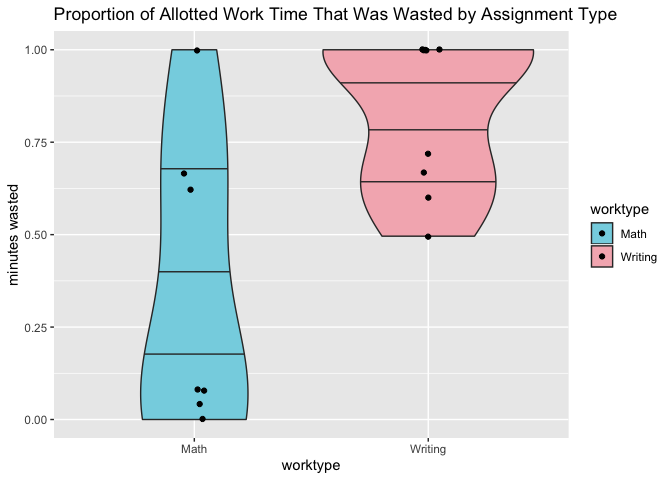
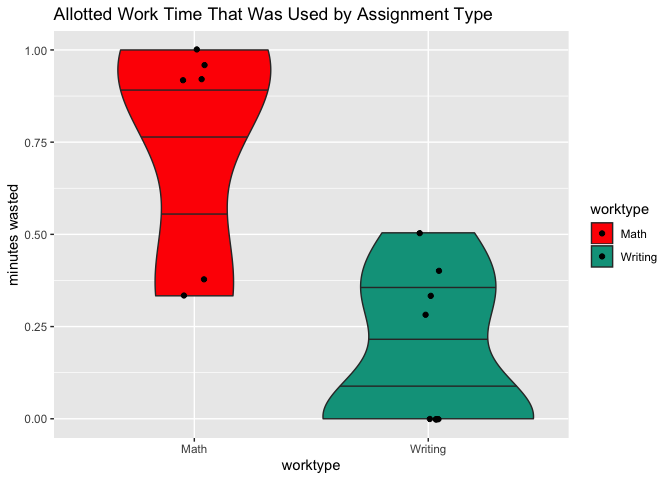
report

diff --git a/index.md b/index.md
@@ -44,7 +44,8 @@ majority of the time that I get distracted is from the Internet, so my
 search history was an accurate reflection of all the time that I wasted.
 The *timewasted* variable tracks the amount of time per work session
 that was spent off task. I also kept track of where I was working
-(*studyarea*) and the assignment type (*worktype*).
+(*studyarea*), the assignment type (*worktype*), and the days until the
+assignment’s deadline (*daysleft*).
 
 After collecting my data, I downloaded my calendar as a .ics file and
 began wrangling. There are two datasets: productivitydata, which
@@ -52,71 +53,7 @@ contains the variables related to my work sessions, and the more general
 activitydata, which contains all the activities that I have done in
 quarantine.
 
-Here is a view of my activity data set:
-
-    head(allactivities)
-
-    ##   summary               start                 end      start_datetime
-    ## 1    Free 2020-04-18 21:00:00 2020-04-19 01:00:00 2020-04-18 21:00:00
-    ## 2  Violin 2020-04-18 20:00:00 2020-04-18 21:00:00 2020-04-18 20:00:00
-    ## 3    Free 2020-04-19 13:00:00 2020-04-19 15:00:00 2020-04-19 13:00:00
-    ## 4    Work 2020-04-19 15:00:00 2020-04-19 16:30:00 2020-04-19 15:00:00
-    ## 5    Free 2020-04-19 16:30:00 2020-04-19 17:00:00 2020-04-19 16:30:00
-    ## 6    Free 2020-04-19 21:30:00 2020-04-20 00:00:00 2020-04-19 21:30:00
-    ##          end_datetime length_sec length_min length_hrs       date daysleft
-    ## 1 2020-04-19 01:00:00 14400 secs   240 secs   4.0 secs 2020-04-18       NA
-    ## 2 2020-04-18 21:00:00  3600 secs    60 secs   1.0 secs 2020-04-18       NA
-    ## 3 2020-04-19 15:00:00  7200 secs   120 secs   2.0 secs 2020-04-19       NA
-    ## 4 2020-04-19 16:30:00  5400 secs    90 secs   1.5 secs 2020-04-19       NA
-    ## 5 2020-04-19 17:00:00  1800 secs    30 secs   0.5 secs 2020-04-19       NA
-    ## 6 2020-04-20 00:00:00  9000 secs   150 secs   2.5 secs 2020-04-19       NA
-    ##   timewasted allottedtime activity hours
-    ## 1      2e+07          240     Free   4.0
-    ## 2      2e+07           60   Violin   1.0
-    ## 3      2e+07          120     Free   2.0
-    ## 4      2e+07           90     Work   1.5
-    ## 5      2e+07           30     Free   0.5
-    ## 6      2e+07          150     Free   2.5
-
 Here is a view of my productivity data set:
-
-    head(productivitydata)
-
-    ##                                        summary               start
-    ## 1 0, Actual Linear Algebra, Bed, 4 problems, 2 2020-04-19 01:00:00
-    ## 2                    60, YoutubeLinear, Bed, 5 2020-04-22 23:00:00
-    ## 3                   180, YoutubeEssay, Bed, 13 2020-04-23 00:00:00
-    ## 4                    60, YoutubeEssay, Desk, 3 2020-04-24 00:00:00
-    ## 5                     60, YoutubeEssay, Bed, 1 2020-04-26 02:00:00
-    ## 6                    120, YoutubeEssay, Bed, 8 2020-04-28 01:00:00
-    ##                   end      start_datetime        end_datetime length_sec
-    ## 1 2020-04-19 03:00:00 2020-04-19 01:00:00 2020-04-19 03:00:00  7200 secs
-    ## 2 2020-04-23 00:00:00 2020-04-22 23:00:00 2020-04-23 00:00:00  3600 secs
-    ## 3 2020-04-23 03:00:00 2020-04-23 00:00:00 2020-04-23 03:00:00 10800 secs
-    ## 4 2020-04-24 01:00:00 2020-04-24 00:00:00 2020-04-24 01:00:00  3600 secs
-    ## 5 2020-04-26 03:00:00 2020-04-26 02:00:00 2020-04-26 03:00:00  3600 secs
-    ## 6 2020-04-28 03:00:00 2020-04-28 01:00:00 2020-04-28 03:00:00  7200 secs
-    ##   length_min length_hrs       date daysleft timewasted allottedtime
-    ## 1   120 secs     2 secs 2020-04-19        2          0          120
-    ## 2    60 secs     1 secs 2020-04-22        5         60           60
-    ## 3   180 secs     3 secs 2020-04-23       13        180          180
-    ## 4    60 secs     1 secs 2020-04-24        3         60           60
-    ## 5    60 secs     1 secs 2020-04-26        1         60           60
-    ## 6   120 secs     2 secs 2020-04-28        8        120          120
-    ##   studyarea timewastedproportion worktype timeproductive
-    ## 1       Bed                    0     Math            120
-    ## 2       Bed                    1     Math              0
-    ## 3       Bed                    1  Writing              0
-    ## 4      Desk                    1  Writing              0
-    ## 5       Bed                    1  Writing              0
-    ## 6       Bed                    1  Writing              0
-    ##   timeworkedproportion
-    ## 1                    1
-    ## 2                    0
-    ## 3                    0
-    ## 4                    0
-    ## 5                    0
-    ## 6                    0
 
 Results
 -------
@@ -158,7 +95,7 @@ effect on my productivity level. The violin plot below depicts this. The
 bands represent the quartiles while the width of the plot represents the
 probability density of the data at that value.
 
-![](index_files/figure-markdown_strict/unnamed-chunk-7-1.png)
+![](index_files/figure-markdown_strict/unnamed-chunk-5-1.png)
 
 There is a lot of variation in both categories, but more in bed than in
 desk. Desk minutes wasted has an outlier, but most of the data is lower,
@@ -172,7 +109,7 @@ I give less time to work done in my bed, wouldn’t there naturally be
 less minutes wasted? To control for this, I compared the proportions of
 time wasted out of the total allotted work time.
 
-![](index_files/figure-markdown_strict/unnamed-chunk-8-1.png)
+![](index_files/figure-markdown_strict/unnamed-chunk-6-1.png)
 
 Here, we see that the distributions of proportions of work time wasted
 are very similar, regardless of the area worked. Therefore, we can
@@ -185,7 +122,7 @@ wasted for writing assignments but not a lot for math assignments.
 Additionally, there seem to be less minutes wasted overall for math than
 for writing assignments. However, let’s control for proportions.
 
-![](index_files/figure-markdown_strict/unnamed-chunk-9-1.png)
+![](index_files/figure-markdown_strict/unnamed-chunk-7-1.png)
 
 After controlling for proportions, we see that there seems to be some
 difference in time wasted by assignment type. Writing assignments, while
@@ -195,7 +132,7 @@ write! While math does have at least some of its probability
 distribution fall in the higher end, this may be due to the outlier at
 1.00.
 
-![](index_files/figure-markdown_strict/unnamed-chunk-10-1.png)
+![](index_files/figure-markdown_strict/unnamed-chunk-8-1.png)
 
 Let’s factor out the outlier at 1.00 for math assignments. Below, we see
 that the probability density of the data for math does not extend above
@@ -204,32 +141,12 @@ that the probability density of the data for math does not extend above
 While there is some overlap, I am clearly wasting more time when writing
 than doing math.
 
-    #filter out the outlier for math
-    noutliers <- productivitydata %>% filter(summary != "60, YoutubeLinear, Bed, 5")
-    violinplot5 <- ggplot(noutliers, aes(x = worktype, y = timewastedproportion, fill = worktype)) +
-      geom_violin(draw_quantiles = c(0.25, 0.5, 0.75)) + #geom_count()
-      geom_jitter(width = 0.05)+
-      scale_fill_manual(values = pal)+
-      labs(title = "Proportion of Allotted Work Time That Was Wasted by Assignment Type",
-           y = "minutes wasted")
-    violinplot5
-
-![](index_files/figure-markdown_strict/unnamed-chunk-11-1.png)
+![](index_files/figure-markdown_strict/unnamed-chunk-9-1.png)
 
 Inversely, below is a graph of the proportion of time used by work type.
 We see comparable results to above.
 
-    pal <- wes_palette("Darjeeling1", n=2, type = "discrete")
-
-    violinplot7 <- ggplot(noutliers, aes(x = worktype, y = timeworkedproportion, fill = worktype)) +
-      geom_violin(draw_quantiles = c(0.25, 0.5, 0.75)) + 
-      geom_jitter(width = 0.05)+
-      scale_fill_manual(values = pal)+
-      labs(title = "Allotted Work Time That Was Used by Assignment Type",
-           y = "minutes wasted")
-    violinplot7
-
-![](index_files/figure-markdown_strict/unnamed-chunk-12-1.png)
+![](index_files/figure-markdown_strict/unnamed-chunk-10-1.png)
 
 Thirdly, we have a graph that depicts my natural work flow. After
 averaging over the observations at each day until deadline, the graph
@@ -240,22 +157,7 @@ because the graph is predicting based on the observations of allotted
 time and the amount of time that was productive separately, the shaded
 area is not an exact replica of the proportions of time used and wasted.
 
-    #linegraph
-    #manually enter missing day values
-    #plot x = daysuntildeadline, y = proportionwasted
-    #second layer=actual time given
-    linegraph1 <- ggplot(productivitydata, aes(x = daysleft)) + 
-      #geom_smooth(aes(y = allottedtime), se = FALSE, fullrange = TRUE) +
-      scale_x_reverse() +
-      geom_ribbon(aes(ymin = 0,ymax = predict(loess(allottedtime ~ daysleft))),
-                     alpha = 0.4, fill = "#68cae3")+
-      #geom_smooth(aes(y = timeproductive), se = FALSE, fullrange = TRUE) +
-      geom_ribbon(aes(ymin = 0,ymax = predict(loess(timeproductive ~ daysleft))),
-                     alpha = 0.95, fill = "#e67d60")
-      
-    linegraph1
-
-![](index_files/figure-markdown_strict/unnamed-chunk-13-1.png)
+![](index_files/figure-markdown_strict/unnamed-chunk-11-1.png)
 
 We see that in general, as time gets closer to the due date, I am using
 more of my time. We have a correlation between the time worked and the
@@ -276,3 +178,37 @@ days prior to a deadline, as I am doing right now. Overall, I see that I
 overestimate the amount of time it takes to accomplish an assignment, as
 I am giving myself a lot more time than necessary, as I was able to
 finish all the assignments in this analysis on time.
+
+Reflection
+----------
+
+My analysis generated several conclusions: first, without adjusting for
+other variables, where I work does not affect my productivity. However,
+different types of assignments have different levels of productivity: I
+am way more productive with my time when I am doing math homework versus
+writing an essay. I am not very surprised, as I did not particularly
+enjoy the essays I wrote during this period while math was a lot more
+interesting. Additionally, I concluded that I overestimate the amount of
+time it takes to accomplish my work, as I am always wasting some time,
+even on the day of the deadline. In the future, I am going to start
+giving myself more time to do an assignment closer to a deadline, as I
+am more naturally inclined to work closer to a deadline. According to
+the model, only around 10 days do I begin to use the time I give myself
+to work. Otherwise, I spend all of my allotted time on the Internet.
+Alternatively, I could try to fix my procrastination habit, but as long
+as my ability to complete work is not seriously affected, I like my
+current work flow. Finally, in quarantine, I have a lot of free time in
+comparison to any other activity.
+
+This project had several limitations. Most fatally, I did not have
+enough productivity data to make solid conclusions–I only had 16
+observations of work sessions. With a small sample size and too much
+variation, results were not very significant. If I could redo this
+project, I would keep track of more assignments over a longer period of
+time. Furthermore, this study can be expanded by predicting the
+proportion of allotted time from both the assignment type and the time
+until deadline. A multivariate model is needed to see the true
+interactions between these variables. Lastly, when I measured the time I
+was working, I did not consider the quality of work being produced. An
+interesting direction to explore in the future is how the quality of
+work changes depending on the work flow.
